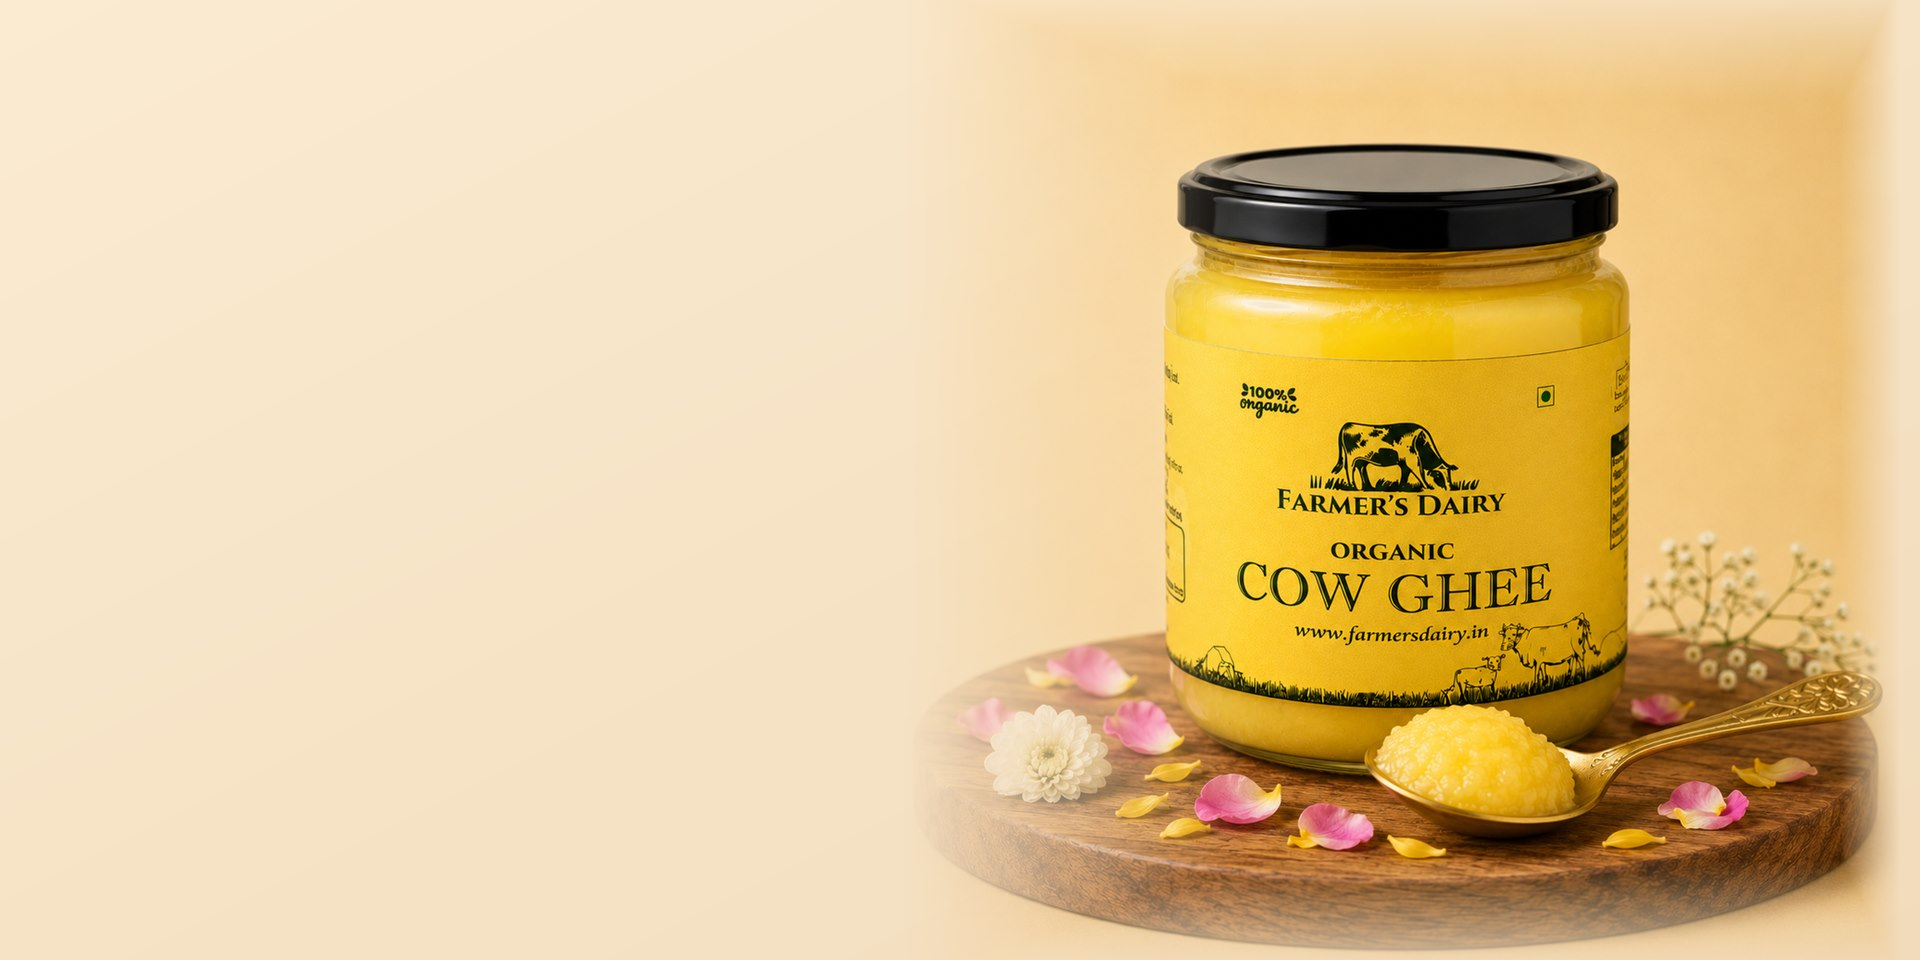
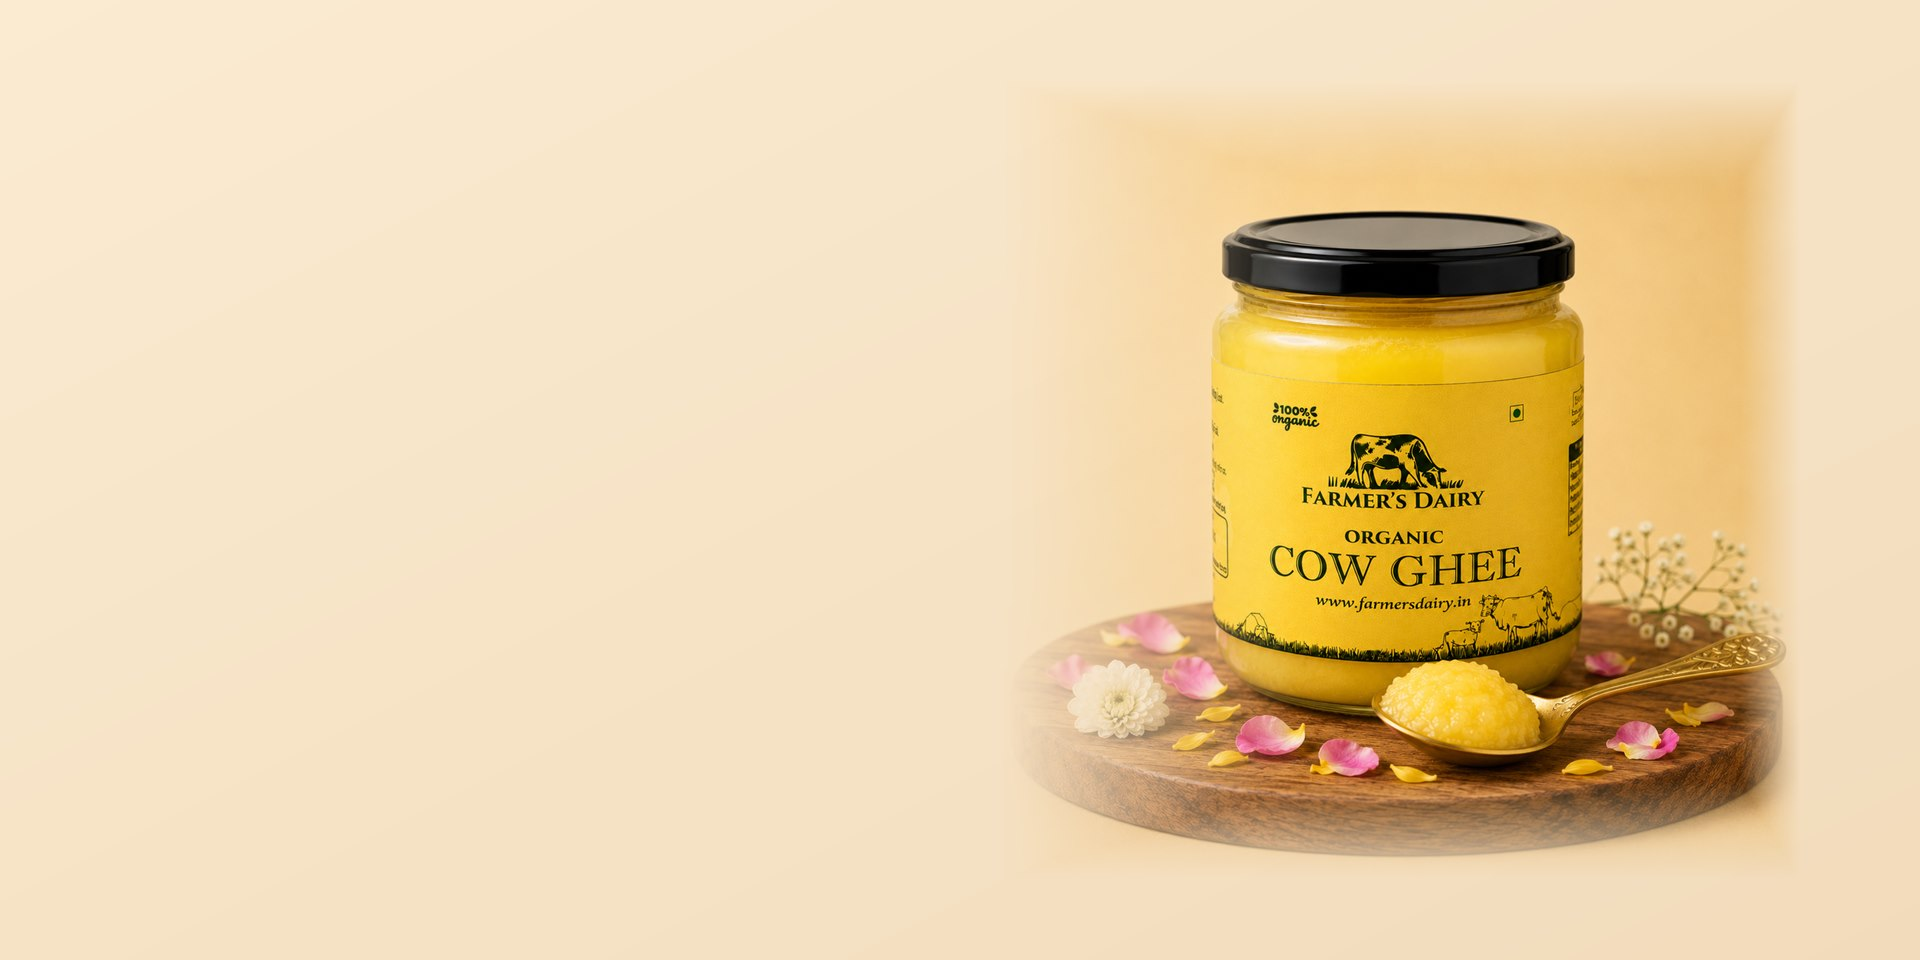
Hero zoom-out, mobile scrim, ghee/paneer/butter Buy Now + prepaid-only
Hero
- Regenerate 4 hero backgrounds with the product zoomed out
  (800x800 with 80px vertical margin) so milk/ghee/butter show
  the full product on all viewports — paneer already looked right
- Mobile: switch the horizontal scrim to a top-down cream gradient
  so headline / body / CTA sit on solid cream and never overlap
  the product art. Desktop keeps the softer partial gradient.

Shop
- Ghee, Paneer, Butter CTAs relabelled "Buy Now" (was "Order Now")
- Add codEligible flag to CartItem — only the Sample Pack sets it
  true. Checkout's COD payment option now hides whenever the cart
  contains anything other than Sample Pack (Ghee/Paneer/Butter and
  milk subscriptions are all prepaid-only)

diff --git a/app/shop/page.tsx b/app/shop/page.tsx
@@ -104,7 +104,7 @@ const products: any[] = [
       categories: ["Ghee", "Organic"],
     },
     isSample: true,
-    ctaLabel: "Order Now",
+    ctaLabel: "Buy Now",
     variantLabel: "Choose Size",
     variants: [
       { label: "1/2 litre", price: 629 },
@@ -124,7 +124,7 @@ const products: any[] = [
       categories: ["Paneer", "Organic"],
     },
     isSample: true,
-    ctaLabel: "Order Now",
+    ctaLabel: "Buy Now",
     variantLabel: "Choose Weight",
     variants: [
       { label: "200g", price: 159 },
@@ -146,7 +146,7 @@ const products: any[] = [
       categories: ["Butter", "Organic"],
     },
     isSample: true,
-    ctaLabel: "Order Now",
+    ctaLabel: "Buy Now",
     variantLabel: "Choose Size",
     variants: [
       { label: "250g", price: 249 },
@@ -417,6 +417,9 @@ export default function ShopPage() {
       price: typeof price === "number" ? price : 35,
       quantity,
       subscription: product.isSample ? "sample" : subscription,
+      // Only the actual Sample Pack (id 3) qualifies for Cash on Delivery.
+      // Ghee/Paneer/Butter are one-time buys but must be prepaid.
+      codEligible: product.id === 3,
       deliveryDate,
       dateRange,
       sampleSize,

diff --git a/components/hero-slider.tsx b/components/hero-slider.tsx
@@ -84,9 +84,17 @@ export function HeroSlider() {
             backgroundRepeat: "no-repeat",
           }}
         >
-          {/* Soft cream scrim on the left for text legibility */}
+          {/* Mobile: strong full-width cream scrim so text never overlaps
+              product art. Desktop: soft partial gradient. */}
           <div
-            className="absolute inset-0 pointer-events-none"
+            className="absolute inset-0 pointer-events-none md:hidden"
+            style={{
+              background:
+                "linear-gradient(180deg, rgba(251,235,209,0.94) 0%, rgba(251,235,209,0.82) 55%, rgba(251,235,209,0.35) 100%)",
+            }}
+          />
+          <div
+            className="absolute inset-0 pointer-events-none hidden md:block"
             style={{
               background:
                 "linear-gradient(90deg, rgba(251,235,209,0.85) 0%, rgba(251,235,209,0.55) 30%, rgba(251,235,209,0) 60%)",

diff --git a/app/checkout/page.tsx b/app/checkout/page.tsx
@@ -695,9 +695,10 @@ export default function CheckoutPage() {
                     </div>
                   </button>
 
-                  {/* Only show COD for sample products */}
-                  {items.some((item) => item.subscription === "sample") &&
-                    !items.some((item) => item.subscription !== "sample") && (
+                  {/* COD only when EVERY cart item is COD-eligible (Sample Pack).
+                      Ghee / Paneer / Butter and milk subscriptions are prepaid. */}
+                  {items.length > 0 &&
+                    items.every((item) => item.codEligible === true) && (
                       <button
                         onClick={() => setPaymentMethod("cod")}
                         className={`p-4 border rounded-lg flex items-center space-x-3 transition-all duration-300 ${

diff --git a/components/cart-context.tsx b/components/cart-context.tsx
@@ -16,6 +16,8 @@ export interface CartItem {
   holidays?: Date[]
   adjustedEndDate?: Date
   totalPrice?: number
+  /** True only for the actual Sample Pack — used to gate COD at checkout. */
+  codEligible?: boolean
 }
 
 interface CartContextType {
